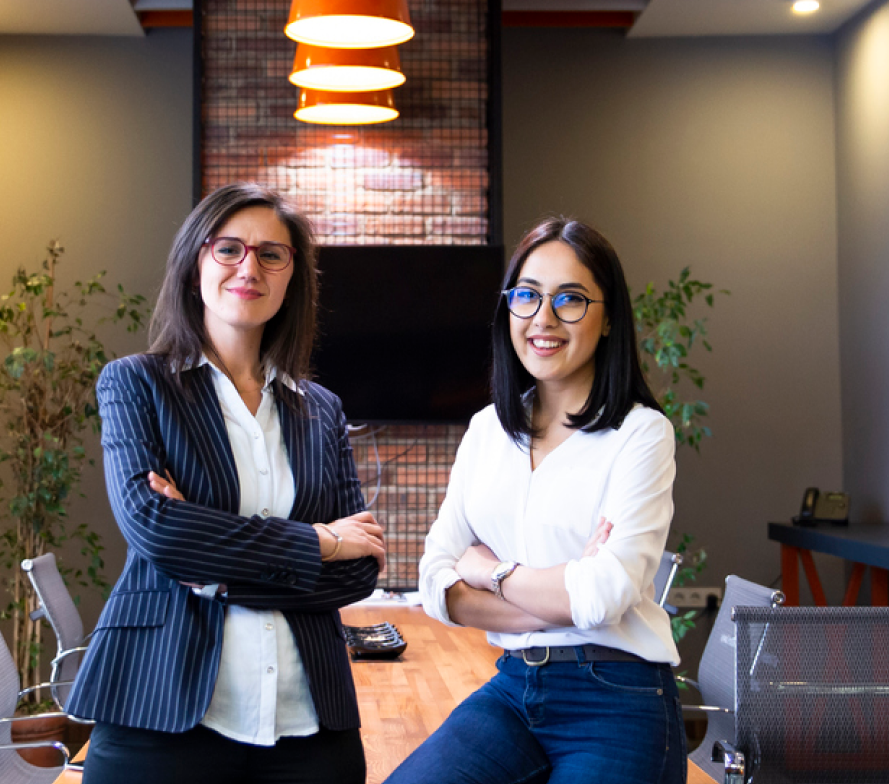
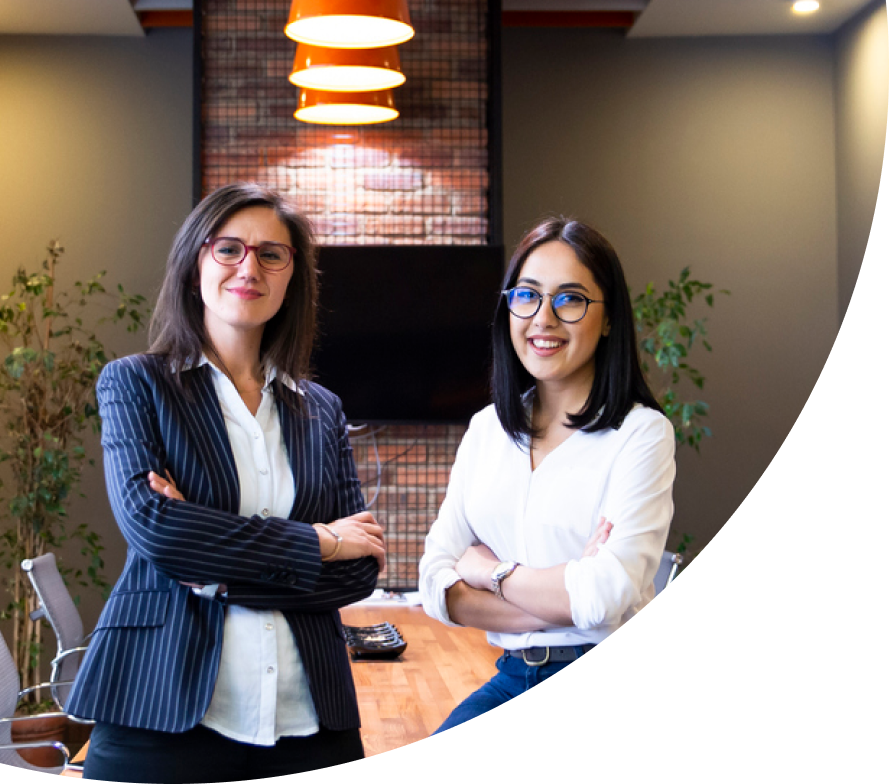
update

Changed region(s): [[0.243, 0.1531, 1.0, 1.0], [0.0, 0.9796, 0.1519, 1.0]]

diff --git a/src/scss/main.css b/src/scss/main.css
@@ -112,13 +112,12 @@
       grid-template-columns: repeat(2, 1fr);
       font-family: "DM Sans", sans-serif; }
       * .wrapper .__ss_hero .__wrap_hero .__thumbnail_hero {
-        position: relative; }
+        position: relative;
+        padding-right: 55px; }
         * .wrapper .__ss_hero .__wrap_hero .__thumbnail_hero img {
-          width: 760px;
-          height: 760px;
-          object-fit: cover;
-          border-radius: 50%;
-          position: absolute; }
+          width: 100%;
+          height: auto;
+          object-fit: cover; }
       * .wrapper .__ss_hero .__wrap_hero .__content_hero .__text_hr {
         margin-top: 253px;
         width: 509px; }
@@ -173,8 +172,32 @@
               margin-left: 5px; }
       * .wrapper .__ss_hero .__wrap_hero .__content_hero .shape_10 {
         position: absolute;
-        top: 0;
+        top: 28px;
         left: calc(75% - 234px); }
+      * .wrapper .__ss_hero .__wrap_hero .__content_hero .__social_media {
+        display: grid;
+        position: absolute;
+        top: 180px;
+        right: 34px; }
+        * .wrapper .__ss_hero .__wrap_hero .__content_hero .__social_media a {
+          width: 46px;
+          height: 46px;
+          border-radius: 50%;
+          display: flex;
+          justify-content: center;
+          align-items: center;
+          text-decoration: none;
+          margin-top: 10px; }
+          * .wrapper .__ss_hero .__wrap_hero .__content_hero .__social_media a .fa {
+            color: #ffffff; }
+        * .wrapper .__ss_hero .__wrap_hero .__content_hero .__social_media .__facebook {
+          background: #186cb0; }
+        * .wrapper .__ss_hero .__wrap_hero .__content_hero .__social_media .__google_plus {
+          background: #e22e04; }
+        * .wrapper .__ss_hero .__wrap_hero .__content_hero .__social_media .__linkedin {
+          background: #074682; }
+        * .wrapper .__ss_hero .__wrap_hero .__content_hero .__social_media .__twitter {
+          background: #00b3d3; }
   * .wrapper .__modal_search {
     max-width: 720px;
     width: 100%;

diff --git a/src/scss/_style.scss b/src/scss/_style.scss
@@ -133,12 +133,11 @@
         font-family: "DM Sans", sans-serif;
         .__thumbnail_hero {
           position: relative;
+          padding-right: 55px;
           img {
-            width: 760px;
-            height: 760px;
+            width: 100%;
+            height: auto;
             object-fit: cover;
-            border-radius: 50%;
-            position: absolute;
           }
         }
         .__content_hero {
@@ -205,8 +204,39 @@
           }
           .shape_10 {
             position: absolute;
-            top: 0;
+            top: 28px;
             left: calc(75% - 234px);
+          }
+          .__social_media {
+            display: grid;
+            position: absolute;
+            top: 180px;
+            right: 34px;
+            a {
+              width: 46px;
+              height: 46px;
+              border-radius: 50%;
+              display: flex;
+              justify-content: center;
+              align-items: center;
+              text-decoration: none;
+              margin-top: 10px;
+              .fa{
+                  color: #ffffff;
+              }
+            }
+            .__facebook {
+              background: #186cb0;
+            }
+            .__google_plus {
+              background: #e22e04;
+            }
+            .__linkedin {
+              background: #074682;
+            }
+            .__twitter {
+              background: #00b3d3;
+            }
           }
         }
       }

diff --git a/index.html b/index.html
@@ -71,6 +71,20 @@
                         </div>
                     </div>
                     <img class="shape_10" src="./images/shape_10_hero.png" alt="#">
+                    <div class="__social_media">
+                        <a href="#" class="__facebook">
+                            <i class="fa fa-facebook" aria-hidden="true"></i>
+                        </a>
+                        <a href="#" class="__google_plus">
+                            <i class="fa fa-google-plus" aria-hidden="true"></i>
+                        </a>
+                        <a href="#" class="__linkedin">
+                            <i class="fa fa-linkedin" aria-hidden="true"></i>
+                        </a>
+                        <a href="#" class="__twitter">
+                            <i class="fa fa-twitter" aria-hidden="true"></i>
+                        </a>
+                    </div>
                 </div>
             </div>
         </section>
